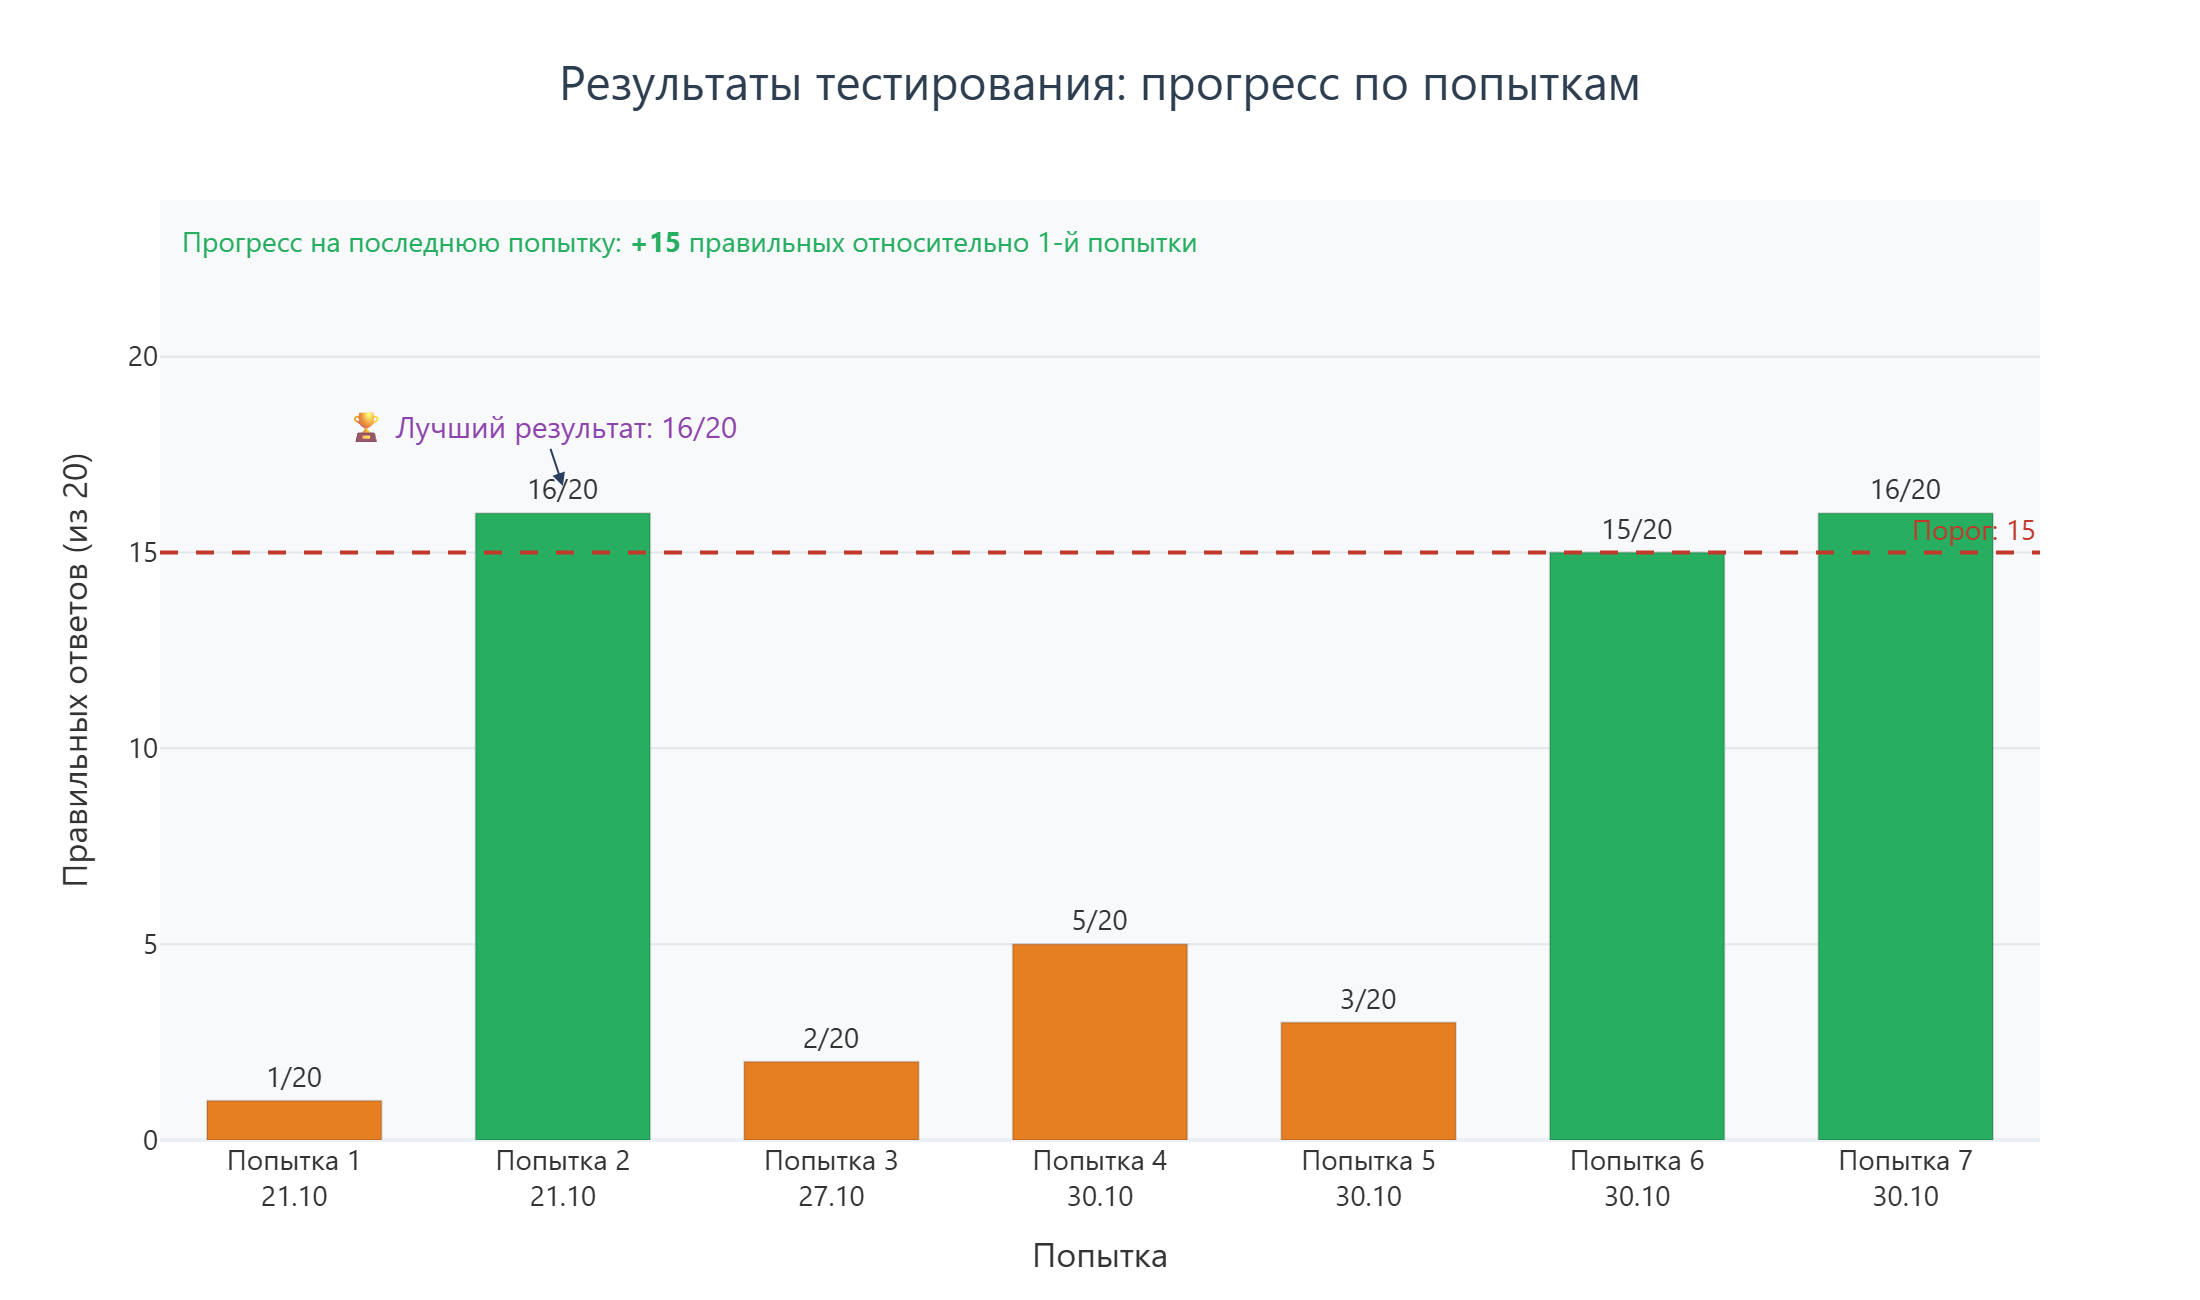
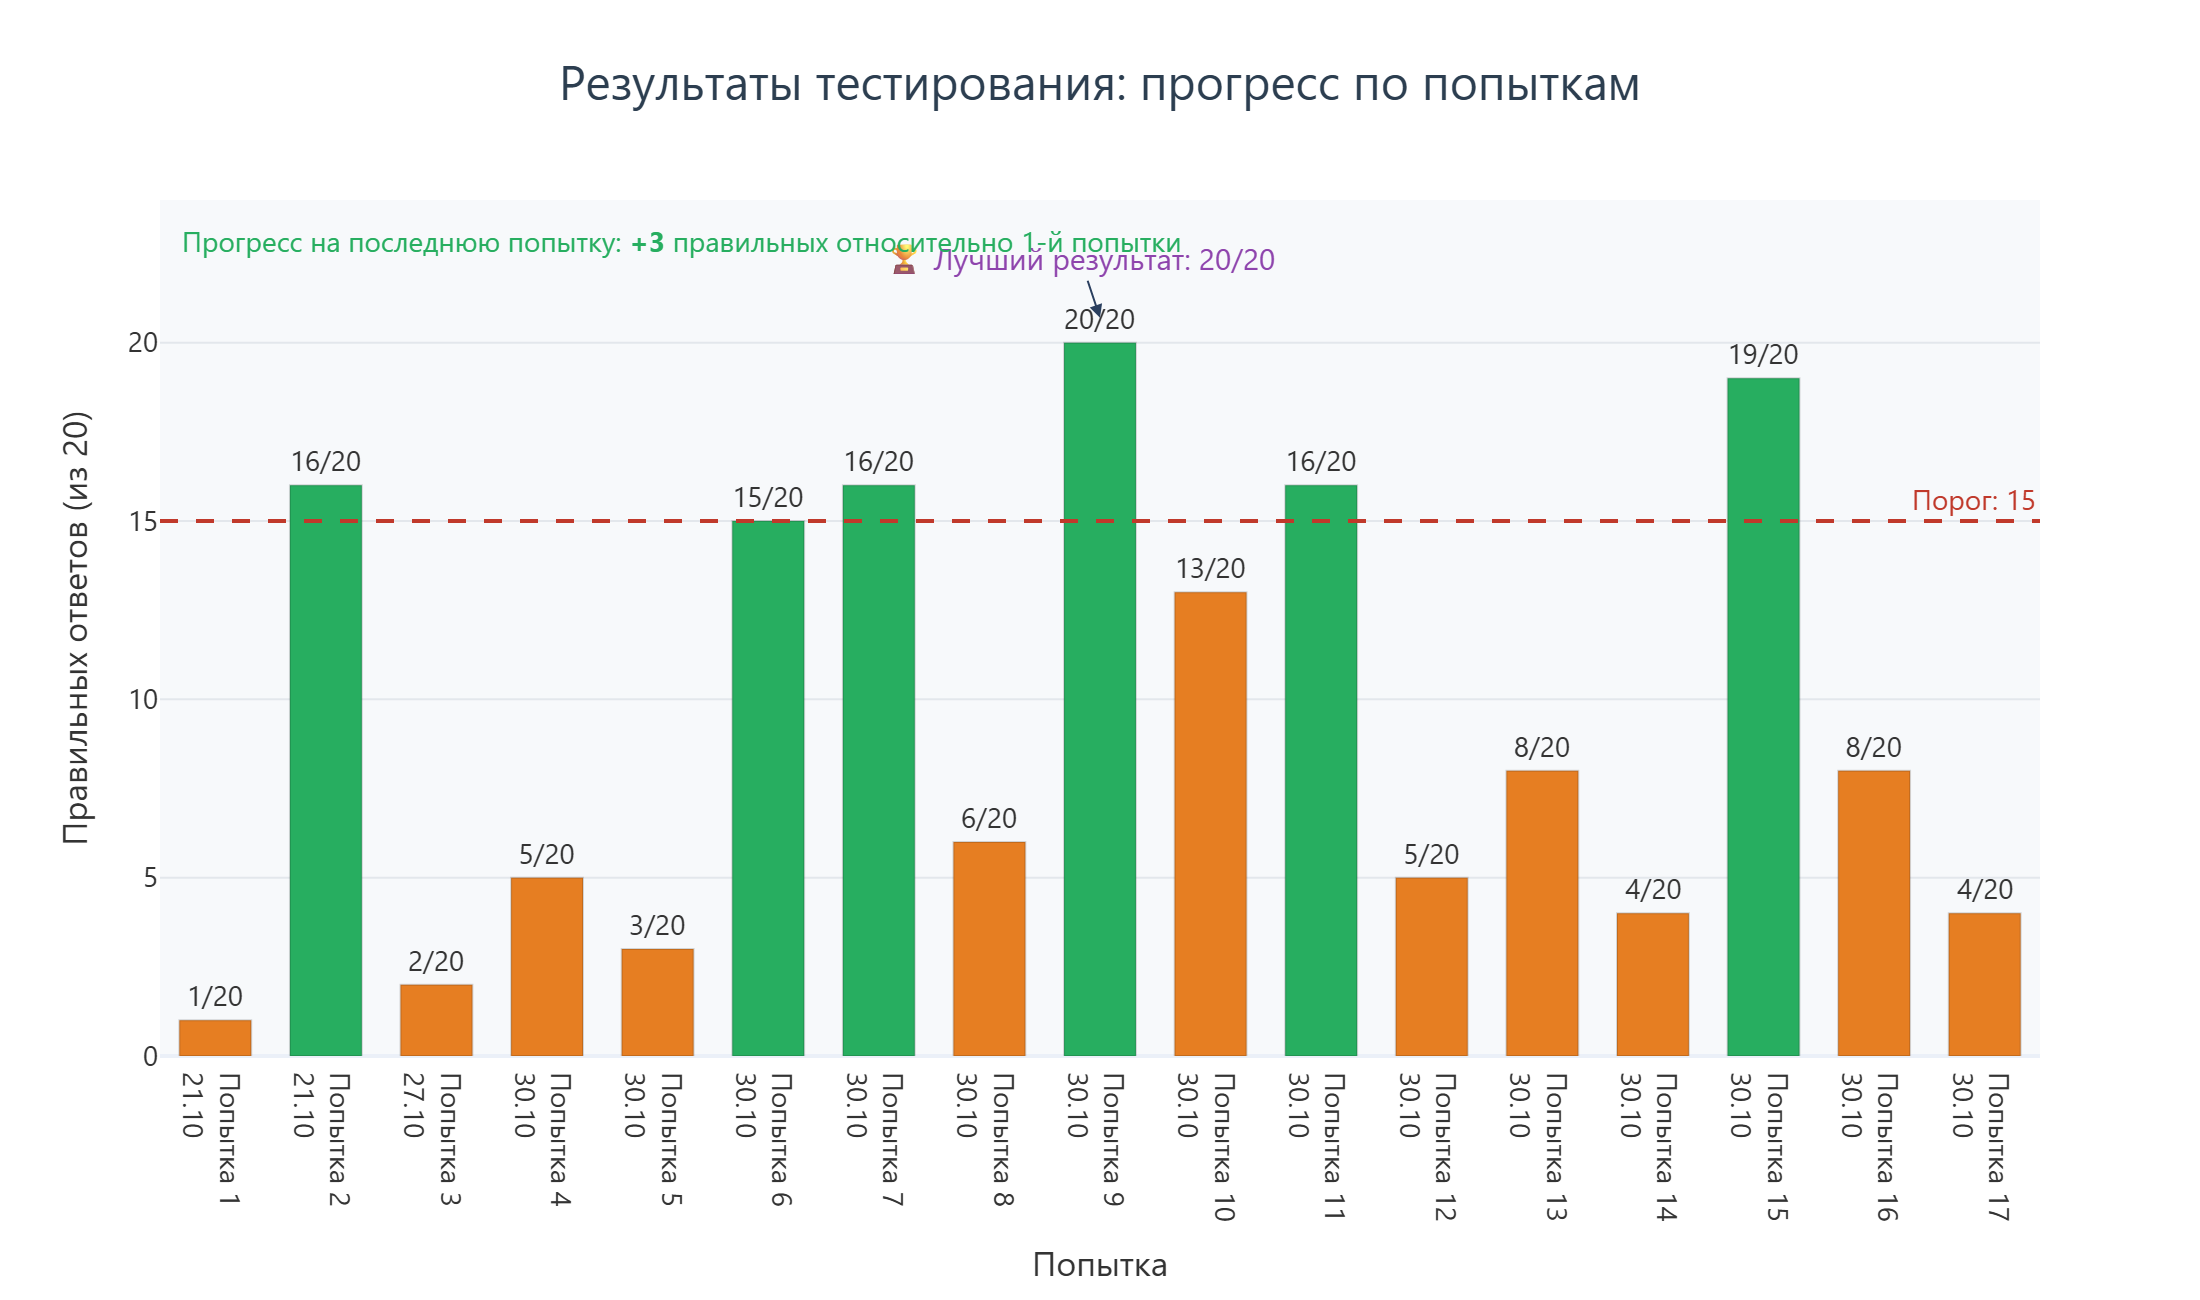
Внесены правки по оформлению + добавлена сырая версия тестов

diff --git a/main.py b/main.py
@@ -2,7 +2,7 @@ import sys, sqlite3
 from PyQt5.QtWidgets import (QApplication, QWidget, QVBoxLayout, QHBoxLayout,
                              QLabel, QLineEdit, QPushButton, QMessageBox,
                              QMainWindow, QStackedWidget, QSpacerItem, QSizePolicy, QFrame,
-                             QGraphicsDropShadowEffect, QScrollArea)
+                             QGraphicsDropShadowEffect, QScrollArea, QRadioButton, QButtonGroup)
 from PyQt5.QtCore import Qt
 from PyQt5.QtGui import QPixmap, QColor
 from graph_test import get_results
@@ -480,6 +480,7 @@ class SpisokWidget(QWidget):
         self.btn_tests = QPushButton("Тесты")
         self.btn_tests.setObjectName("primary_btn")
         self.btn_tests.setCursor(Qt.PointingHandCursor)
+        self.btn_tests.clicked.connect(self.on_btn_tests_click)
 
         self.btn_graphik = QPushButton("Графики")
         self.btn_graphik.setObjectName("primary_btn")
@@ -502,57 +503,8 @@ class SpisokWidget(QWidget):
     def on_btn_theory_click(self):
         self.switch_callback(4)
 
-
-class GraphikWidget(QWidget):
-    def __init__(self, switch_callback):
-        super().__init__()
-        self.db_path = 'database_logins.db'
-        self.connection = sqlite3.connect(self.db_path)
-        self.cursor = self.connection.cursor()
-        self.switch_callback = switch_callback
-        self.init_ui()
-
-    def init_ui(self):
-        self.setWindowTitle('Графики о прохождении тестов')
-        layout = build_card(self)
-        layout.addStretch()
-
-        self.label = QLabel("Нажмите на кнопку ниже, чтобы построить график:")
-        self.label.setObjectName("info_text")  # ✅ ново
-        self.label.setAlignment(Qt.AlignCenter)  # ✅ ново
-        self.label.setFixedSize(800, 700)
-        self.label.setWordWrap(True)
-
-        self.btn_back = QPushButton("Вернуться назад <-")
-        self.btn_back.setCursor(Qt.PointingHandCursor)
-        self.btn_back.clicked.connect(self.on_btn_back_click)
-        self.btn_back.setObjectName("back_btn")
-
-        self.btn_to_create = QPushButton("Построить график!")
-        self.btn_to_create.setCursor(Qt.PointingHandCursor)
-        self.btn_to_create.clicked.connect(self.on_btn_to_create_click)
-        self.btn_to_create.setObjectName("primary_btn")
-
-        layout.addWidget(self.btn_back)
-        layout.addWidget(self.label)
-        layout.addWidget(self.btn_to_create)
-
-        layout.addStretch()
-
-    def on_btn_back_click(self):
-        self.label.setText("Нажмите на кнопку ниже, чтобы посторить график:")
-        self.switch_callback(2)
-
-    def on_btn_to_create_click(self):
-        if len(results) >= 2:
-            self.label.setText("График ваших результатов")
-            get_results()
-            pixmap = QPixmap("test_results_light.png")
-            self.label.setPixmap(pixmap)
-            self.label.setScaledContents(True)
-        else:
-            self.label.setText(
-                "Пройдите хотя бы два теста, чтобы увидеть график Ваших результатов.\nЖелаем успехов!")
+    def on_btn_tests_click(self):
+        self.switch_callback(5)
 
 
 class TheoryWidget(QWidget):
@@ -571,7 +523,7 @@ class TheoryWidget(QWidget):
         self.chs_title.setAlignment(Qt.AlignCenter)
 
         self.label_image = QLabel()
-        self.label_image.setFixedSize(800, 600)
+        self.label_image.setFixedSize(1050, 700)
         pixmap = QPixmap(f"IMAGES/{IMAGES[SCHETCHIK_FOR_IMAGES[0] % len(IMAGES)][0]}")
         self.label_image.setPixmap(pixmap)
         self.label_image.setScaledContents(True)
@@ -635,6 +587,117 @@ class TheoryWidget(QWidget):
         self.label_image.setScaledContents(True)
 
 
+class TestWidget(QWidget):
+    def __init__(self, switch_callback):
+        super().__init__()
+        self.switch_callback = switch_callback
+        self.init_ui()
+
+    def init_ui(self):
+        self.setWindowTitle('Графики о прохождении тестов')
+        layout = build_card(self)
+        layout.addStretch()
+
+        self.label = QLabel("Тестирование")
+        self.label.setObjectName("subtitle")
+        self.label.setAlignment(Qt.AlignCenter)
+        self.label.setWordWrap(True)
+
+        self.question_label = QLabel("ВОПРОС")
+        self.question_label.setObjectName("title")
+        self.question_label.setAlignment(Qt.AlignCenter)
+
+        self.radio_btn_1 = QRadioButton("Var_1")
+        self.radio_btn_2 = QRadioButton("Var_2")
+        self.radio_btn_3 = QRadioButton("Var_3")
+        self.radio_btn_4 = QRadioButton("Var_4")
+
+        self.radio_btn_group = QButtonGroup()
+        self.radio_btn_group.addButton(self.radio_btn_1, 1)
+        self.radio_btn_group.addButton(self.radio_btn_2, 2)
+        self.radio_btn_group.addButton(self.radio_btn_3, 3)
+        self.radio_btn_group.addButton(self.radio_btn_4, 4)
+
+        self.radio_btn_group.idClicked.connect(self.on_radio_selected)
+
+        self.btn_back = QPushButton("Выйти и завершить тест <-")
+        self.btn_back.setCursor(Qt.PointingHandCursor)
+        self.btn_back.clicked.connect(self.on_btn_back_click)
+        self.btn_back.setObjectName("back_btn")
+        self.btn_back.setFixedSize(250, 40)
+
+        layout.addWidget(self.btn_back, alignment=Qt.AlignLeft)
+        layout.addWidget(self.label)
+        layout.addWidget(self.question_label)
+
+        layout.addWidget(self.radio_btn_1)
+        layout.addWidget(self.radio_btn_2)
+        layout.addWidget(self.radio_btn_3)
+        layout.addWidget(self.radio_btn_4)
+
+        layout.addStretch()
+
+    def on_btn_back_click(self):
+        self.switch_callback(2)
+
+    def on_radio_selected(self, button_id):
+        selected_button = self.radio_btn_group.button(button_id)
+        text = selected_button.text()
+        print(f"Пользователь выбрал ID: {button_id}, text: {text}")
+
+
+class GraphikWidget(QWidget):
+    def __init__(self, switch_callback):
+        super().__init__()
+        self.db_path = 'database_logins.db'
+        self.connection = sqlite3.connect(self.db_path)
+        self.cursor = self.connection.cursor()
+        self.switch_callback = switch_callback
+        self.init_ui()
+
+    def init_ui(self):
+        self.setWindowTitle('Графики о прохождении тестов')
+        layout = build_card(self)
+        layout.addStretch()
+
+        self.label = QLabel("Нажмите на кнопку ниже, чтобы построить график:")
+        self.label.setObjectName("info_text")
+        self.label.setAlignment(Qt.AlignCenter)
+        self.label.setFixedSize(1050, 700)
+        self.label.setWordWrap(True)
+
+        self.btn_back = QPushButton("Вернуться назад <-")
+        self.btn_back.setCursor(Qt.PointingHandCursor)
+        self.btn_back.clicked.connect(self.on_btn_back_click)
+        self.btn_back.setObjectName("back_btn")
+
+        self.btn_to_create = QPushButton("Построить график!")
+        self.btn_to_create.setCursor(Qt.PointingHandCursor)
+        self.btn_to_create.clicked.connect(self.on_btn_to_create_click)
+        self.btn_to_create.setObjectName("primary_btn")
+
+        layout.addWidget(self.btn_back)
+        layout.addWidget(self.label)
+        layout.addWidget(self.btn_to_create)
+
+        layout.addStretch()
+
+    def on_btn_back_click(self):
+        self.label.setText("Нажмите на кнопку ниже, чтобы посторить график:")
+        self.switch_callback(2)
+
+    def on_btn_to_create_click(self):
+        if len(results) >= 2:
+            self.label.setText("График ваших результатов")
+            get_results()
+            pixmap = QPixmap("test_results_light.png")
+            self.label.setPixmap(pixmap)
+            self.label.setScaledContents(True)
+        else:
+            self.label.setText(
+                "Пройдите хотя бы два теста, чтобы увидеть график Ваших результатов.\nЖелаем успехов!")
+
+
 class MainWindow(QMainWindow):
     def __init__(self):
         super().__init__()
@@ -654,12 +717,14 @@ class MainWindow(QMainWindow):
         self.spisok_page = SpisokWidget(self.switch_page)
         self.graphik_page = GraphikWidget(self.switch_page)
         self.theory_page = TheoryWidget(self.switch_page)
+        self.test_page = TestWidget(self.switch_page)
 
         self.stack.addWidget(self.login_page)
         self.stack.addWidget(self.reg_page)
         self.stack.addWidget(self.spisok_page)
         self.stack.addWidget(self.graphik_page)
         self.stack.addWidget(self.theory_page)
+        self.stack.addWidget(self.test_page)
 
     def switch_page(self, index):
         if index == 0 or index == 1:
@@ -670,6 +735,8 @@ class MainWindow(QMainWindow):
             self.setWindowTitle('Аналитика прохождения')
         elif index == 4:
             self.setWindowTitle('Теория')
+        elif index == 5:
+            self.setWindowTitle('Тест')
         self.stack.setCurrentIndex(index)
 
 
